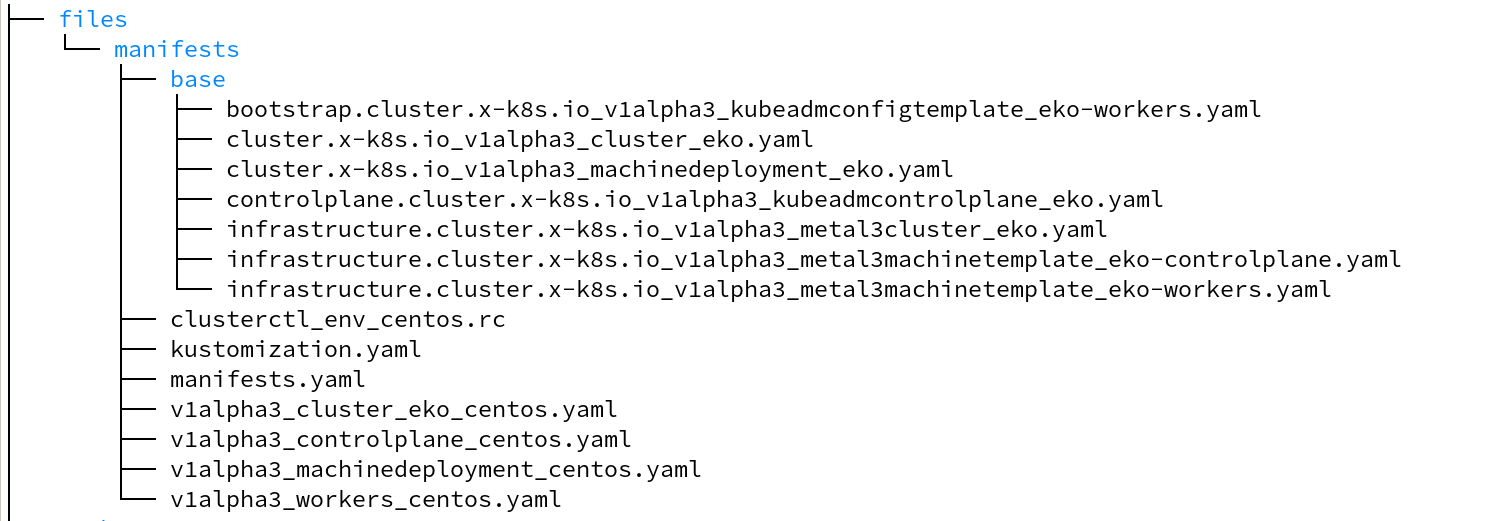
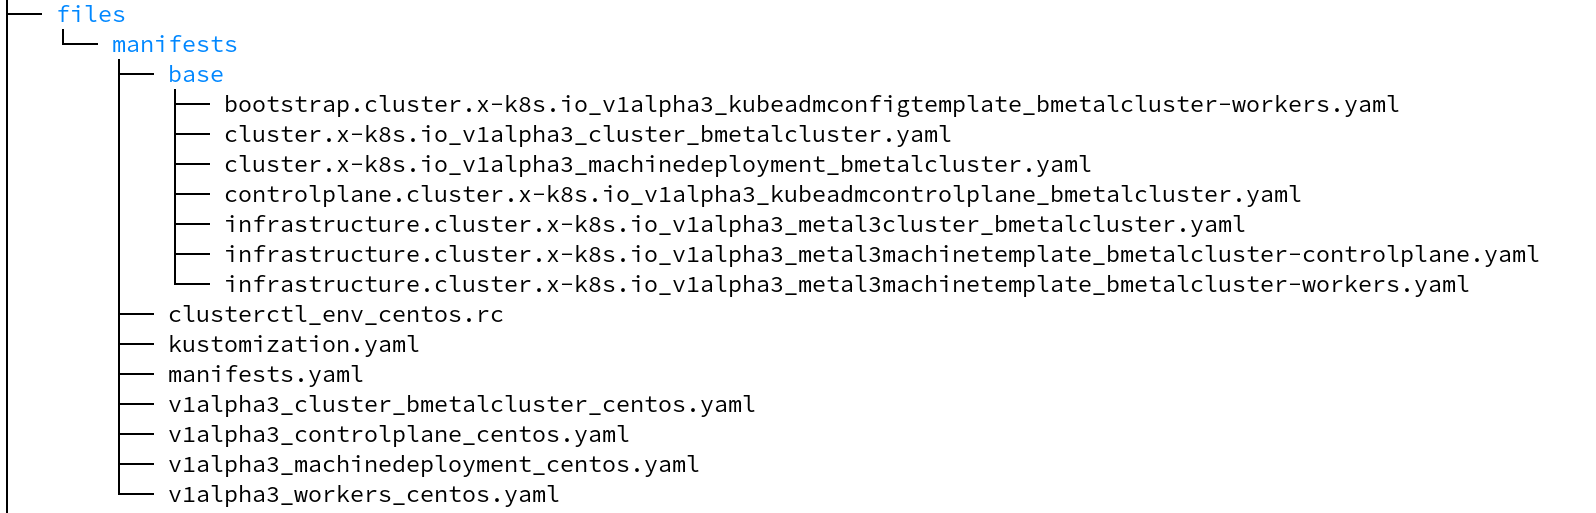
review fixes

Changed region(s): [[0.0, 0.0, 0.9551, 1.0]]

diff --git a/_posts/2020-05-30-Metal3-Cluster-Deployment.md b/_posts/2020-05-30-Metal3-Cluster-Deployment.md
@@ -5,20 +5,20 @@ categories: ["metal3", "kubernetes", "cluster API", "metal3-dev-env"]
 author: Himanshu Roy
 ---
 
-## Introduction
+## **Introduction**
 
-This blog post describes how to deploy a bare metal cluster, a virtual one for simplicity, using [Metal³](https://github.com/metal3-io/metal3-dev-env). We will briefly discuss the steps involved in setting up the cluster as well as some of the customizations available. If you want to know more about the architechture of Metal³, this [blogpost]({%post_url 2020-02-27-talk-kubernetes-finland-metal3 %}) can be helpful.
+This blog post describes how to deploy a bare metal cluster, a virtual one for simplicity, using [Metal³/metal3-dev-env](https://github.com/metal3-io/metal3-dev-env). We will briefly discuss the steps involved in setting up the cluster as well as some of the customizations available. If you want to know more about the architechture of Metal³, this [blogpost]({%post_url 2020-02-27-talk-kubernetes-finland-metal3 %}) can be helpful.
 
-This post builds upon the [**detailed metal3-dev-env walkthrough blogpost**]({%post_url 2020-02-18-metal3-dev-env-install-deep-dive %}) which describes in detail the steps involved in the environment set up and management cluster configuration. Here we will use that environment to deploy a new Kubernetes cluster using Metal³.
+This post builds upon the [detailed metal3-dev-env walkthrough blogpost]({%post_url 2020-02-18-metal3-dev-env-install-deep-dive %}) which describes in detail the steps involved in the environment set up and management cluster configuration. Here we will use that environment to deploy a new Kubernetes cluster using Metal³.
 
 Before we get started, there are a couple of requirements we are expecting to be fulfilled.
 
 <br/>
 <br/>
 
-## Requirements
+## **Requirements**
 
-- Metal³ is already deployed and working,  if not please follow the instructions in the prevously mentioned - **detailed metal3-dev-env walkthrough blogpost**.
+- Metal³ is already deployed and working,  if not please follow the instructions in the prevously mentioned [detailed metal3-dev-env walkthrough blogpost]({%post_url 2020-02-18-metal3-dev-env-install-deep-dive %}).
 - The appropriate environment variables are setup via shell or in the `config_${user}.sh` file, for example -
   - CAPI_VERSION
   - NUM_NODES
@@ -27,22 +27,24 @@ Before we get started, there are a couple of requirements we are expecting to be
 <br/>
 <br/>
 
-## BareMetal Cluster Deployment
+## **BareMetal Cluster Deployment**
 
 The deployment scripts primarily use ansible and the existing Kubernetes management cluster (based on minikube ) for deploying the bare-metal cluster. Make sure that some of the environment varilables used for Metal³ deployment are set, if you didn't use `config_${user}.sh` for setting the environment varilables.
 
 | Parameter           | Description                  | Default                  |
 | ------------------- | ---------------------------- | ------------------------ |
-| CAPI_VERSION        | Version of Metal3 API4       | v1alpha3/v1alpha4        |
+| CAPI_VERSION        | Version of Metal3 API4       | v1alpha3        |
 | POD_CIDR            | Pod Network CIDR             | 192.168.0.0/18           |
 | CLUSTER_NAME        | Name of bare metal cluster   | test1                    |
 
 <br/>
 <br/>
 
-### Config Files and Resources Types
+### **Config Files and Resources Types**
 
-!["A list of files under manifests directory for CLUSTER_NAME=eko"](/assets/2020-05-30-Metal3-Cluster-Deployment/manifest-directory.png)  
+!["A list of files under manifests directory for CLUSTER_NAME=bmetalcluster"](/assets/2020-05-30-Metal3-Cluster-Deployment/manifest-directory.png)  
+> info "Note"
+> All these files are generated under the path `https://github.com/metal3-io/metal3-dev-env/tree/master/vm-setup/roles/v1aX_integration_test/files` as part of the provisioning process. When you do a provisioning for the first time, this directory is created and is subsequently used to store the templates and config files generated for deploying the baremetal cluster.
 
 <br/>
 
@@ -86,7 +88,7 @@ Here are some of the resources that are created as part of provisioning :
 <br/>
 
 
-### Steps Involved
+### **Steps Involved**
 
 All the scripts for cluster provisioning or deprovisioning are located at - [`${metal3-dev-env}/scripts/v1alphaX/`](https://github.com/metal3-io/metal3-dev-env/tree/master/scripts/v1alphaX). The scripts call a common playbook which handles all the tasks that are available.
 
@@ -120,7 +122,7 @@ The steps involved in the process are :
 <br/>
 
 
-### Provision Cluster
+### **Provision Cluster**
 This script, located at the path - `${metal3-dev-env}/scripts/v1alphaX/provision_clusters.sh`, provisions the cluster by creating a `Metal3Cluster` resource. 
 
 To see if you have a successful Cluster resource creation( the cluster still doesn't have a Controlplane or Workers ), just do - 
@@ -152,12 +154,12 @@ spec:
   controlPlaneRef:
     apiVersion: controlplane.cluster.x-k8s.io/v1alpha3
     kind: KubeadmControlPlane
-    name: eko
+    name: bmetalcluster
     namespace: metal3
   infrastructureRef:
     apiVersion: infrastructure.cluster.x-k8s.io/v1alpha3
     kind: Metal3Cluster
-    name: eko
+    name: bmetalcluster
     namespace: metal3
 status:
   infrastructureReady: true
@@ -167,9 +169,9 @@ status:
 <br/>
 <br/>
 
-### Provision Controlplane
+### **Provision Controlplane**
 
-This script, located at the path - ${metal3-dev-env}/scripts/v1alphaX/provision_clusters.sh, provisions the controlplane or the master of the cluster. As part of the controlplane provisioning, the generated manifests are for cluster, controlplane and machinedeployment. The **MachineDeployment** creates a **Machine** which picks up a BareMetalHost satisfying its requirements as the controlplane node, and it is then provisioned by the BareMetalOperator. there are other resources created in the process of provisioning, like `KubeadmControlPlane` and `Metal3MachineTemplate` resource which are involved in the provisioning process.
+This script, located at the path - `${metal3-dev-env}/scripts/v1alphaX/provision_clusters.sh`, provisions the controlplane or the master of the cluster. As part of the controlplane provisioning, the generated manifests are for cluster, controlplane and machinedeployment. The `MachineDeployment` creates a `Machine` which picks up a BareMetalHost satisfying its requirements as the controlplane node, and it is then provisioned by the BareMetalOperator. there are other resources created in the process of provisioning, like `KubeadmControlPlane` and `Metal3MachineTemplate` resource which are involved in the provisioning process.
 
 > info "Note"
 > It takes some time for the provisioning of the Controlplane, you can watch the process using some steps shared a bit later
@@ -189,16 +191,16 @@ metadata:
     blockOwnerDeletion: true
     controller: true
     kind: Cluster
-    name: eko
+    name: bmetalcluster
     uid: aec0f73b-a068-4992-840d-6330bf943d22
   resourceVersion: "44555"
-  selfLink: /apis/controlplane.cluster.x-k8s.io/v1alpha3/namespaces/metal3/kubeadmcontrolplanes/eko
+  selfLink: /apis/controlplane.cluster.x-k8s.io/v1alpha3/namespaces/metal3/kubeadmcontrolplanes/bmetalcluster
   uid: 99487c75-30f1-4765-b895-0b83b0e5402b
 spec:
   infrastructureTemplate:
     apiVersion: infrastructure.cluster.x-k8s.io/v1alpha3
     kind: Metal3MachineTemplate
-    name: eko-controlplane
+    name: bmetalcluster-controlplane
     namespace: metal3
   kubeadmConfigSpec:
     files:
@@ -208,7 +210,7 @@ spec:
   version: v1.18.0
 status:
   replicas: 1
-  selector: cluster.x-k8s.io/cluster-name=eko,cluster.x-k8s.io/control-plane=
+  selector: cluster.x-k8s.io/cluster-name=bmetalcluster,cluster.x-k8s.io/control-plane=
   unavailableReplicas: 1
   updatedReplicas: 1
 ```
@@ -220,12 +222,13 @@ kubectl get Metal3MachineTemplate ${CLUSTER_NAME}-controlplane -n metal3
 To track the progress of provisioning, you can try the following:
 
 ```console 
-kubectl get bmh -n metal3 -w
+kubectl get BareMetalHosts -n metal3 -w
 ```
-> bmh=BareMetalHosts
+> The `BareMetalHosts` resource is created when `Metal³|metal3-dev-env` was deployed. It represents a `BareMetalHost`, with all its details and configuration, and is managed by the `BareMetalOperator`.
+
 > You should see all the nodes that were created at the time of metal3 deployment, along with their current status as the provisioning progresses
 > info "Note"
-> All the baremetal hosts listed above were created when Metal³ was deployed in the **detailed metal3-dev-env walkthrough blogpost**.
+> All the baremetal hosts listed above were created when Metal³ was deployed in the *detailed metal3-dev-env walkthrough blogpost*.
 
 ```console
 kubectl get Machine -n metal3 -w
@@ -237,7 +240,7 @@ kubectl get Machine -n metal3 -w
 sudo virsh net-dhcp-leases baremetal
 ```
 > info "Note"
-> *baremetal is one of the 2 networks that were created at the time of Metal3 deployment, the other being “provisioning” which is used - as you have guessed - for provisioning the bare metal cluster. More details about networking setup in the metal3-dev-env environment are described in the **detailed metal3-dev-env walkthrough blogpost**.*
+> *baremetal is one of the 2 networks that were created at the time of Metal3 deployment, the other being “provisioning” which is used - as you have guessed - for provisioning the bare metal cluster. More details about networking setup in the metal3-dev-env environment are described in the - detailed metal3-dev-env walkthrough blogpost.*
 
 You can login to the master node if you want, and can check the deployment status
 ```console
@@ -247,9 +250,9 @@ ssh metal3@{master-node-ip}
 <br/>
 
 
-### Provision Workers
+### **Provision Workers**
 
-The script is located at ${metal3-dev-env-path}/scripts/v1alphaX/provision_worker.sh and it provisions a node to be added as a worker to the baremetal cluster. It selects one of the remaining nodes and provisions it and adds it to the baremetal cluster ( which only has a master at this point ). The resources created for workers are - `MachineDeployment` which can be scaled up to add more workers to the cluster, and it also created a `MachineSet` which then creates a `Machine` managing the node.
+The script is located at `${metal3-dev-env-path}/scripts/v1alphaX/provision_worker.sh` and it provisions a node to be added as a worker to the baremetal cluster. It selects one of the remaining nodes and provisions it and adds it to the baremetal cluster ( which only has a master at this point ). The resources created for workers are - `MachineDeployment` which can be scaled up to add more workers to the cluster, and it also created a `MachineSet` which then creates a `Machine` managing the node.
 
 > info "Note"
 > Similar to a Controlplane provisioning, a Worker provisioning also takes some time, and you can watch the process using steps shared a bit later. This will also apply when you scale Up/Down workers at a later point in time.
@@ -266,20 +269,20 @@ metadata:
   ownerReferences:
   - apiVersion: cluster.x-k8s.io/v1alpha3
     kind: Cluster
-    name: eko
+    name: bmetalcluster
     uid: aec0f73b-a068-4992-840d-6330bf943d22
   resourceVersion: "66257"
-  selfLink: /apis/cluster.x-k8s.io/v1alpha3/namespaces/metal3/machinedeployments/eko
+  selfLink: /apis/cluster.x-k8s.io/v1alpha3/namespaces/metal3/machinedeployments/bmetalcluster
   uid: f598da43-0afe-44e4-b793-cd5244c13f4e
 spec:
-  clusterName: eko
+  clusterName: bmetalcluster
   minReadySeconds: 0
   progressDeadlineSeconds: 600
   replicas: 1
   revisionHistoryLimit: 1
   selector:
     matchLabels:
-      cluster.x-k8s.io/cluster-name: eko
+      cluster.x-k8s.io/cluster-name: bmetalcluster
       nodepool: nodepool-0
   strategy:
     rollingUpdate:
@@ -289,25 +292,25 @@ spec:
   template:
     metadata:
       labels:
-        cluster.x-k8s.io/cluster-name: eko
+        cluster.x-k8s.io/cluster-name: bmetalcluster
         nodepool: nodepool-0
     spec:
       bootstrap:
         configRef:
           apiVersion: bootstrap.cluster.x-k8s.io/v1alpha3
           kind: KubeadmConfigTemplate
-          name: eko-workers
-      clusterName: eko
+          name: bmetalcluster-workers
+      clusterName: bmetalcluster
       infrastructureRef:
         apiVersion: infrastructure.cluster.x-k8s.io/v1alpha3
         kind: Metal3MachineTemplate
-        name: eko-workers
+        name: bmetalcluster-workers
       version: v1.18.0
 status:
   observedGeneration: 1
   phase: ScalingUp
   replicas: 1
-  selector: cluster.x-k8s.io/cluster-name=eko,nodepool=nodepool-0
+  selector: cluster.x-k8s.io/cluster-name=bmetalcluster,nodepool=nodepool-0
   unavailableReplicas: 1
   updatedReplicas: 1
 ```
@@ -347,8 +350,27 @@ kubectl scale --replicas=3 MachineDeployment ${CLUSTER_NAME} -n metal3
 <br/>
 <br/>
 
-### Deprovisioning
+### **Deprovisioning**
 
 All of the previous components have corresponding deprovisioning scripts which use config files, in the previously mentioned manifest directory, and use them to clean up worker, controlplane and cluster.
+For example if you wish to deprovision the cluster, you would do : 
 
+```console
+sh ${metal3-dev-env-path}/scripts/v1alphaX/deprovision_cluster.sh
+```
+> This will use the already generated cluster definition file, generated when the cluster was provisioned, and supply it to **Kubernetes** ansible module to remove/deprovision the cluster. The cluster definition file according to the parameters in above examples, will be - `${Manifests}/v1alpha3_cluster_bmetalcluster_centos.yaml`. You can find it in the Snapshot shared at the beginning of this blogpost where we show a directory structure.
+
+
+## **Summary**
+
+In this blogpost we saw how to deploy a baremetal cluster once we have a Metal³(metal3-dev-env repo) deployed and by that point we will already have the nodes ready to be used for a bamremetal cluster deployment. In the first section we show the various configuration files, templates, resource types and their meanings. Then we see the workflow of an important component of provisioning - generating templates. After that we see a general overview of how all resources are related and at what point are they created - provision_cluster/controlplane/worker. In each of the provisioning sections we see the steps to monitor the provisioning and how to confirm if its successful or not, with brief explanations wherever required. Finally we see the deprovisioning section which uses the resource definitions generated at the time of provisioning to deprovision  cluster, controlplane or worker.
+
+Here are a few resources which you might find useful if you want to explore further, some of them have already been shared earlier.
+
+ - [Metal3-Documentation](https://metal3.io/)
+   - [Metal3-Try-it](https://metal3.io/try-it.html)
+ - [Metal³/metal3-dev-env](https://github.com/metal3-io/metal3-dev-env)
+ - [Detailed metal3-dev-env walkthrough blogpost]({%post_url 2020-02-18-metal3-dev-env-install-deep-dive %})
+ - [Kubernetes Metal3 Talk]({%post_url 2020-02-27-talk-kubernetes-finland-metal3 %})
+ - [Metal3-Docs-github](https://github.com/metal3-io/metal3-docs)
 
